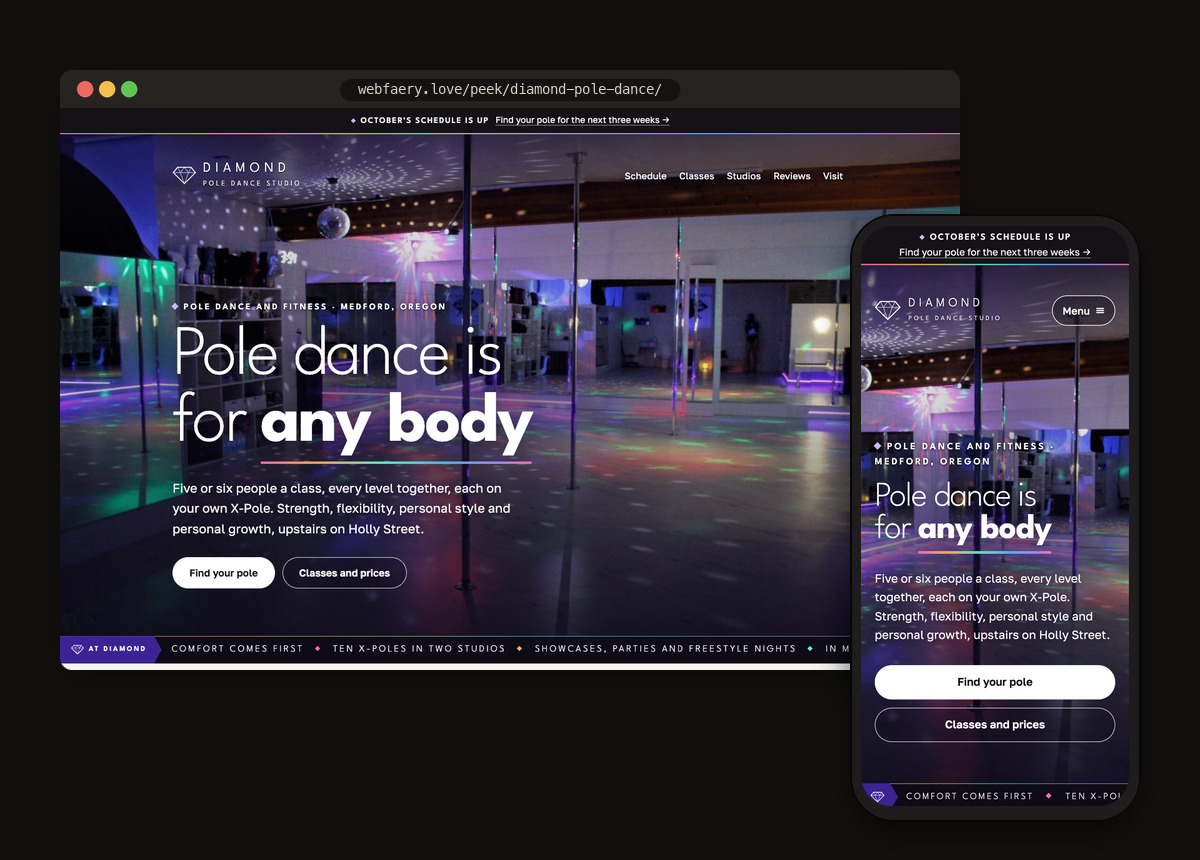
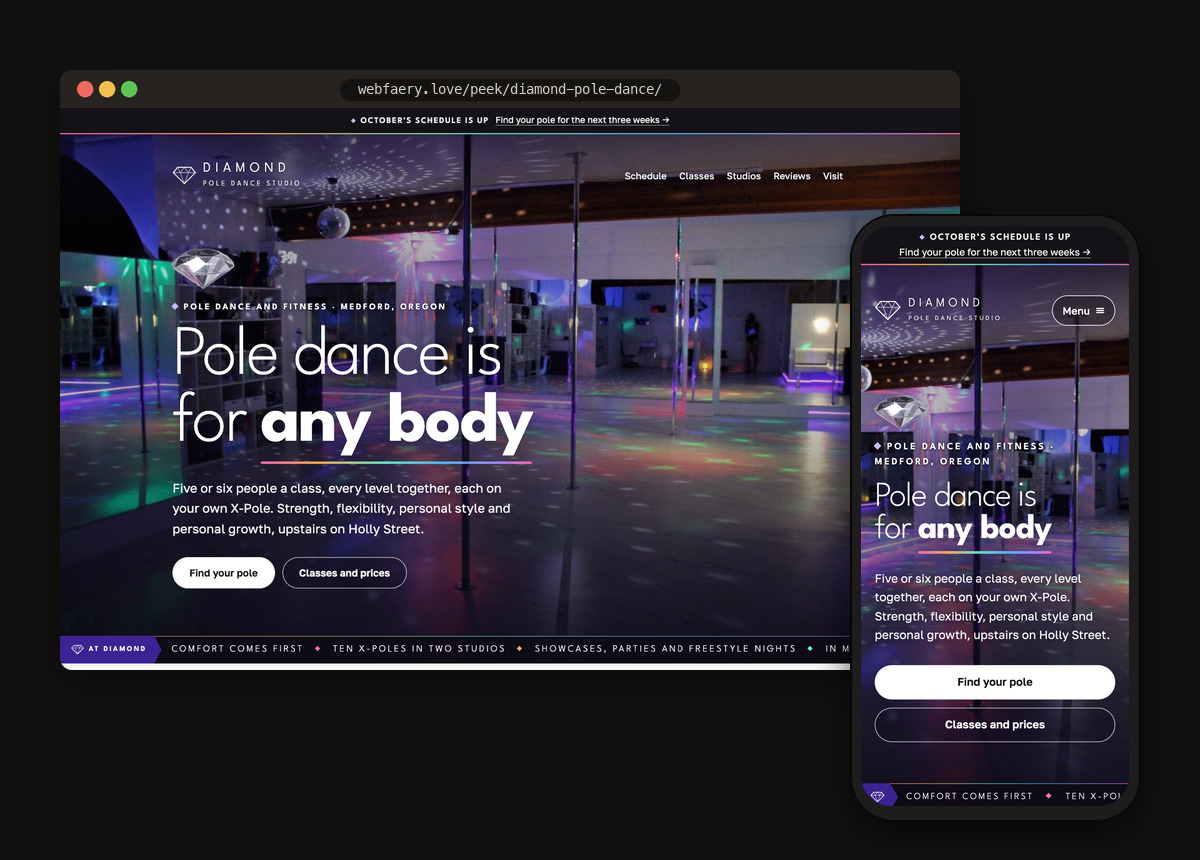
Diamond Pole Dance: a turning diamond over the hero words, the door to "Reserve your pole" (Pollen: "can you add a spinning diamond to diamond pole")
A crystal round brilliant (57 facets) drawn on a canvas after the clear diamond in their logo and Instagram picture.
It turns once every 20 seconds and catches the light (a white glint with pink and sky tips), rests off screen or in
a hidden tab, and sits still with one soft glint under reduced motion. Tap it and it whirls while the page glides to
"Reserve your pole". Share preview rebuilt with it.

Changed region(s): [[0.1233, 0.2419, 0.4933, 0.3628], [0.7092, 0.4233, 0.8942, 0.5442]]

diff --git a/peek/diamond-pole-dance/index.html b/peek/diamond-pole-dance/index.html
@@ -174,6 +174,22 @@
     .dm-more { display: none; } /* sitting still, the first three lines are plenty */
   }
 
+  /* THE DIAMOND (Pollen, Oct 14: "add a spinning diamond"): the crystal from their logo and their Instagram picture, cut
+     as a real round brilliant (57 facets) and turning slowly over the words. As it turns, its facets catch the room's
+     lights: a white glint with the fire at its tips, and now and then a flash of the party colors. Its job: it's the
+     door to the schedule. Tap it and it gives a quick whirl while the page glides down to "Reserve your pole", where
+     the mirror ball takes over. It speeds up a little under a mouse, rests when it's off screen or the tab is hidden, and
+     under reduced motion it sits still with one soft glint. Drawn on a canvas, so it stays crisp on any screen. */
+  /* it sits in the hero's top padding (--eat), so the words, buttons and the AT DIAMOND strip stay where they were */
+  .dm-gem { --gw: clamp(96px, min(11vw, 14vh), 170px); --eat: 50px; display: block; width: var(--gw); height: calc(var(--gw) * 0.75);
+    margin: calc(-1 * var(--eat)) 0 2px calc(var(--gw) * -0.11); cursor: pointer; -webkit-tap-highlight-color: transparent; }
+  @media (max-width: 760px) { .dm-gem { --eat: 36px; } }
+  .dm-gem canvas { display: block; width: 100%; height: 100%; }
+  .hero-band.wait .dm-gem { opacity: 0; }
+  .hero-band.go .dm-gem { animation: gem-in 2.6s cubic-bezier(.22,1,.36,1) 1.2s both; }
+  @keyframes gem-in { from { opacity: 0; transform: translateY(22px) scale(0.84); } 30% { opacity: 1; } to { opacity: 1; transform: none; } }
+  @media (orientation: landscape) and (max-height: 500px) { .dm-gem { --gw: 76px; --eat: 20px; } }
+
   section { padding-block: 84px; }
   section + section { border-top: 1px solid var(--hair); }
 
@@ -789,6 +805,7 @@
   <div class="hero-low gutter">
     <div class="wrap" style="width:100%">
       <div class="hero-copy">
+        <a class="dm-gem" id="dm-gem" href="#reserve" tabindex="-1" aria-hidden="true" title="Reserve your pole"><canvas width="0" height="0"></canvas></a>
         <p class="label"><span>pole dance and fitness &middot; medford, oregon</span></p>
         <h1>Pole dance is for <em>any body</em></h1>
         <p class="lede">Five or six people a class, every level together, each on your own X&#8209;Pole. Strength, flexibility, personal style and personal growth, upstairs on Holly Street.</p>
@@ -830,6 +847,162 @@
     var im = new Image(); im.onload = go; im.onerror = go; im.src = 'images/hero.jpg';
     if (im.complete) go();
     setTimeout(go, 1500);
+  })();
+</script>
+<script>
+  /* THE DIAMOND: a round brilliant in 3D (table, 8 stars, 8 kites, 16 upper girdles, 8 pavilion mains, 16 lower girdles),
+     turning in a room of lights that stays still, so every facet catches them as it passes: the far side shows through
+     the crystal, the near side is drawn over it, and the facet that meets the key light throws the glint. */
+  (function () {
+    var a = document.getElementById('dm-gem'), cv = a && a.querySelector('canvas'), x = cv && cv.getContext && cv.getContext('2d');
+    if (!x) return;
+    var R = Math.PI / 180, P = [], F = [];
+    var g = 0.026, hc = 0.33, rt = 0.56, rs = 0.79, hp = 0.86, rl = 0.2; /* girdle, crown height, table, star tips, pavilion depth, lower girdle tips */
+    function pt(r, an, y) { P.push([r * Math.cos(an), y, r * Math.sin(an)]); return P.length - 1; }
+    function crownY(r) { return g + hc * (1 - r) / (1 - rt); }
+    function pavY(r) { return -g - hp * (1 - r); }
+    var T = [], M = [], L = [], Gt = [], Gb = [], k, j;
+    for (k = 0; k < 8; k++) { T[k] = pt(rt, 45 * k * R, g + hc); M[k] = pt(rs, (45 * k + 22.5) * R, crownY(rs) + 0.05); L[k] = pt(rl, (45 * k + 22.5) * R, pavY(rl)); }
+    for (j = 0; j < 16; j++) { Gt[j] = pt(1, 22.5 * j * R, g); Gb[j] = pt(1, 22.5 * j * R, -g); }
+    var C = P.push([0, -g - hp, 0]) - 1;
+    function face(ix, part) { F.push({ i: ix, p: part }); }
+    face(T.slice(), 't');
+    for (k = 0; k < 8; k++) {
+      var km = (k + 7) % 8, e0 = 2 * k, e1 = 2 * k + 1, e2 = (2 * k + 2) % 16;
+      face([T[k], M[k], T[(k + 1) % 8]], 'c'); face([T[k], M[km], Gt[e0], M[k]], 'c'); face([M[k], Gt[e0], Gt[e1]], 'c'); face([M[k], Gt[e1], Gt[e2]], 'c');
+      face([Gb[e0], Gb[e1], L[k]], 'p'); face([Gb[e1], Gb[e2], L[k]], 'p'); face([Gb[e0], L[k], C, L[km]], 'p');
+    }
+    for (j = 0; j < 16; j++) face([Gt[j], Gt[(j + 1) % 16], Gb[(j + 1) % 16], Gb[j]], 'g');
+    F.forEach(function (f) { /* outward normals (Newell) and centers */
+      var nx = 0, ny = 0, nz = 0, cx = 0, cy = 0, cz = 0, n = f.i.length;
+      for (var q = 0; q < n; q++) {
+        var A = P[f.i[q]], B = P[f.i[(q + 1) % n]];
+        nx += (A[1] - B[1]) * (A[2] + B[2]); ny += (A[2] - B[2]) * (A[0] + B[0]); nz += (A[0] - B[0]) * (A[1] + B[1]);
+        cx += A[0] / n; cy += A[1] / n; cz += A[2] / n;
+      }
+      var l = Math.hypot(nx, ny, nz) || 1; nx /= l; ny /= l; nz /= l;
+      if (nx * cx + ny * cy + nz * cz < 0) { nx = -nx; ny = -ny; nz = -nz; }
+      f.n = [nx, ny, nz]; f.c = [cx, cy, cz];
+    });
+    /* the room, in degrees (az 0 = toward you, + = right): a sharp key light high on the left ringed by the fire
+       (pink, amber, mint, sky), a smaller light on the right, and the studio's party lights and violet strip lower down */
+    function Dir(az, el) { return [Math.sin(az * R) * Math.cos(el * R), Math.sin(el * R), Math.cos(az * R) * Math.cos(el * R)]; }
+    var KEY = Dir(-38, 66), LIGHTS = [
+      [KEY, [1, 1, 1], 90, 2], [Dir(-50, 62), [1, 0.44, 0.71], 80, 1.1], [Dir(-44, 71), [1, 0.7, 0.36], 80, 0.95],
+      [Dir(-28, 70), [0.44, 0.94, 0.78], 80, 0.95], [Dir(-30, 61), [0.36, 0.72, 1], 80, 1.05], [Dir(30, 50), [0.92, 0.9, 1], 60, 0.9],
+      [Dir(-16, 36), [1, 0.44, 0.71], 70, 0.45], [Dir(24, 40), [0.44, 0.94, 0.78], 70, 0.4], [Dir(2, 30), [0.66, 0.55, 1], 40, 0.5]
+    ];
+    function env(rx, ry, rz, o) {
+      /* the mirrors around the room are hard stripes, so neighboring facets read dark and light like a real stone */
+      var band = Math.cos(Math.atan2(rx, rz) * 6 + Math.asin(Math.max(-1, Math.min(1, ry))) * 5);
+      var st = band < -0.15 ? 0 : band > 0.35 ? 1 : (band + 0.15) / 0.5, hi = 0.5 + 0.5 * ry, b = 0.13 + st * (0.24 + 0.72 * hi * hi);
+      o[0] = b * 0.93; o[1] = b * 0.9; o[2] = b * 1.08;
+      for (var q = 0; q < LIGHTS.length; q++) {
+        var Lq = LIGHTS[q], d = rx * Lq[0][0] + ry * Lq[0][1] + rz * Lq[0][2];
+        if (d > 0) { var s = Math.pow(d, Lq[2]) * Lq[3]; o[0] += s * Lq[1][0]; o[1] += s * Lq[1][1]; o[2] += s * Lq[1][2]; }
+      }
+      return o;
+    }
+    function tone(v) { return Math.round(255 * (1 - Math.exp(-v * 1.7))); }
+    var V = [], tmp = [0, 0, 0], PITCH = 0.3, DIST = 7;
+    function draw(W, H, yaw, glint) {
+      var cyw = Math.cos(yaw), syw = Math.sin(yaw), cp = Math.cos(PITCH), sp = Math.sin(PITCH);
+      var S = Math.min(W * 0.4, H * 0.52), ox = W / 2, oy = H * 0.5 - S * 0.2, lw = Math.max(0.6, W / 420);
+      for (var q = 0; q < P.length; q++) {
+        var p = P[q], x1 = p[0] * cyw + p[2] * syw, z1 = -p[0] * syw + p[2] * cyw, y2 = p[1] * cp - z1 * sp, z2 = p[1] * sp + z1 * cp, f = DIST / (DIST - z2);
+        V[q] = [ox + x1 * f * S, oy - y2 * f * S];
+      }
+      x.clearRect(0, 0, W, H);
+      var hg = x.createRadialGradient(ox, oy - S * 0.1, 0, ox, oy - S * 0.1, S * 1.25); /* a little night behind it, then the violet strip's glow */
+      hg.addColorStop(0, 'rgba(10,8,22,0.3)'); hg.addColorStop(0.6, 'rgba(10,8,22,0.14)'); hg.addColorStop(1, 'rgba(10,8,22,0)');
+      x.fillStyle = hg; x.fillRect(0, 0, W, H);
+      hg = x.createRadialGradient(ox, oy - S * 0.1, 0, ox, oy - S * 0.1, S * 1.25);
+      hg.addColorStop(0, 'rgba(201,184,255,0.28)'); hg.addColorStop(0.55, 'rgba(150,120,255,0.1)'); hg.addColorStop(1, 'rgba(150,120,255,0)');
+      x.fillStyle = hg; x.fillRect(0, 0, W, H);
+      var front = [], back = [], best = null, bestS = 0;
+      F.forEach(function (fc) {
+        var n = fc.n, c = fc.c;
+        var nz1 = -n[0] * syw + n[2] * cyw, nx = n[0] * cyw + n[2] * syw, ny = n[1] * cp - nz1 * sp, nz = n[1] * sp + nz1 * cp;
+        var cz1 = -c[0] * syw + c[2] * cyw, cx1 = c[0] * cyw + c[2] * syw, cy2 = c[1] * cp - cz1 * sp, cz2 = c[1] * sp + cz1 * cp;
+        (-cx1 * nx - cy2 * ny + (DIST - cz2) * nz > 0 ? front : back).push({ f: fc, n: [nx, ny, nz] });
+      });
+      function poly(f) { var ix = f.i; x.beginPath(); x.moveTo(V[ix[0]][0], V[ix[0]][1]); for (var q = 1; q < ix.length; q++) x.lineTo(V[ix[q]][0], V[ix[q]][1]); x.closePath(); }
+      back.forEach(function (e) { /* the far side, seen through the stone */
+        var ix = -e.n[0], iy = -e.n[1], iz = -e.n[2];
+        env(-2 * iz * ix, 2 * iz * iy, 2 * iz * iz - 1, tmp);
+        x.fillStyle = 'rgb(' + tone(tmp[0] * 0.95) + ',' + tone(tmp[1] * 0.95) + ',' + tone(tmp[2] * 1.02) + ')';
+        poly(e.f); x.fill(); x.strokeStyle = 'rgba(255,255,255,0.16)'; x.lineWidth = lw * 0.8; x.stroke();
+      });
+      front.forEach(function (e) { /* the near side: table and crown clear, pavilion fuller */
+        var n = e.n, rx = 2 * n[2] * n[0], ry = 2 * n[2] * n[1], rz = 2 * n[2] * n[2] - 1, part = e.f.p;
+        if (part === 'p') env(rx, -ry, -rz, tmp); else env(rx, ry, rz, tmp);
+        if (part === 'g') { var gm = 0.34 + 0.4 * Math.max(0, n[1] + n[2] * 0.5); tmp[0] = tmp[0] * 0.3 + gm; tmp[1] = tmp[1] * 0.3 + gm * 0.97; tmp[2] = tmp[2] * 0.3 + gm * 1.08; }
+        x.fillStyle = 'rgba(' + tone(tmp[0]) + ',' + tone(tmp[1]) + ',' + tone(tmp[2]) + ',' + (part === 't' ? 0.42 : part === 'c' ? 0.66 : part === 'g' ? 0.9 : 0.8) + ')';
+        poly(e.f); x.fill(); x.strokeStyle = 'rgba(255,255,255,0.42)'; x.lineWidth = lw; x.stroke();
+        var d = rx * KEY[0] + ry * KEY[1] + rz * KEY[2]; if (d > bestS) { bestS = d; best = e; }
+      });
+      var gl = glint != null ? glint : Math.min(1, Math.max(0, (bestS - 0.992) / 0.007));
+      if (best && gl > 0.02) {
+        var ix2 = best.f.i, gx = 0, gy = 0; for (var q2 = 0; q2 < ix2.length; q2++) { gx += V[ix2[q2]][0] / ix2.length; gy += V[ix2[q2]][1] / ix2.length; }
+        star(gx, gy, S * (0.5 + 0.3 * gl), gl);
+      }
+    }
+    function star(sx, sy, r, al) { /* a soft bloom and a four point star, its long arms tinged with the fire */
+      x.save(); x.globalCompositeOperation = 'lighter'; x.translate(sx, sy);
+      var bg = x.createRadialGradient(0, 0, 0, 0, 0, r * 0.42);
+      bg.addColorStop(0, 'rgba(255,255,255,' + 0.95 * al + ')'); bg.addColorStop(0.35, 'rgba(232,224,255,' + 0.38 * al + ')'); bg.addColorStop(1, 'rgba(201,184,255,0)');
+      x.fillStyle = bg; x.beginPath(); x.arc(0, 0, r * 0.42, 0, 7); x.fill();
+      var w = Math.max(0.9, r * 0.06);
+      function ray(l, t, rot, fill) { x.save(); x.rotate(rot); x.fillStyle = fill; x.beginPath(); x.moveTo(-l, 0); x.lineTo(0, -t); x.lineTo(l, 0); x.lineTo(0, t); x.closePath(); x.fill(); x.restore(); }
+      var lg = x.createLinearGradient(-r, 0, r, 0);
+      lg.addColorStop(0, 'rgba(255,111,181,0)'); lg.addColorStop(0.22, 'rgba(255,150,200,' + 0.7 * al + ')'); lg.addColorStop(0.5, 'rgba(255,255,255,' + al + ')');
+      lg.addColorStop(0.78, 'rgba(120,200,255,' + 0.7 * al + ')'); lg.addColorStop(1, 'rgba(92,184,255,0)');
+      var vg = x.createLinearGradient(-r * 0.66, 0, r * 0.66, 0);
+      vg.addColorStop(0, 'rgba(255,255,255,0)'); vg.addColorStop(0.5, 'rgba(255,255,255,' + al + ')'); vg.addColorStop(1, 'rgba(255,255,255,0)');
+      ray(r, w, 0, lg); ray(r * 0.66, w * 0.9, Math.PI / 2, vg);
+      var dw = 'rgba(255,255,255,' + 0.5 * al + ')'; ray(r * 0.24, w * 0.6, Math.PI / 4, dw); ray(r * 0.24, w * 0.6, -Math.PI / 4, dw);
+      x.restore();
+    }
+
+    /* the turn: one slow revolution every 20 seconds (the 8 fold cut makes that a twinkle every couple of seconds) */
+    var still = window.matchMedia ? window.matchMedia('(prefers-reduced-motion: reduce)') : { matches: false };
+    var REST = 31 * R, SPD = 2 * Math.PI / 20, yaw = REST, W = 0, H = 0, raf = 0, last = 0, seen = true, hover = 0, hv = 0, kick = 0, kickAt = 0;
+    function size() {
+      var d = Math.min(3, window.devicePixelRatio || 1), w = Math.round(cv.clientWidth * d), h = Math.round(cv.clientHeight * d); /* layout size, not the scaled one mid entrance */
+      if (w > 0 && h > 0 && (w !== cv.width || h !== cv.height)) { cv.width = w; cv.height = h; }
+      W = cv.width; H = cv.height;
+    }
+    function paint() { if (!W) size(); if (W) draw(W, H, still.matches ? REST : yaw, still.matches ? 0.75 : null); }
+    function tick(t) {
+      raf = 0;
+      var dt = last ? Math.min(0.05, (t - last) / 1000) : 0; last = t;
+      hv += (hover - hv) * Math.min(1, dt * 3);
+      var boost = kick ? kick * Math.exp(-(t - kickAt) / 1000 * 1.7) : 0; if (boost < 0.01) kick = 0;
+      yaw = (yaw + dt * SPD * (1 + 1.6 * hv + boost)) % (2 * Math.PI);
+      paint(); run();
+    }
+    function run() { if (!raf && seen && !document.hidden && !still.matches) raf = requestAnimationFrame(tick); }
+    function rest() { if (raf) cancelAnimationFrame(raf); raf = 0; last = 0; }
+    function whirl(n) { kick = n; kickAt = performance.now(); run(); }
+    size(); paint(); run();
+    if ('ResizeObserver' in window) new ResizeObserver(function () { size(); paint(); }).observe(cv);
+    else window.addEventListener('resize', function () { size(); paint(); });
+    if ('IntersectionObserver' in window) new IntersectionObserver(function (es) { es.forEach(function (e) { seen = e.isIntersecting; if (seen) run(); else rest(); }); }).observe(a);
+    document.addEventListener('visibilitychange', function () { if (document.hidden) rest(); else run(); });
+    if (still.addEventListener) still.addEventListener('change', function () { rest(); paint(); run(); });
+    /* it arrives with the words: a few quick turns that settle into the slow one */
+    a.addEventListener('animationstart', function (e) { if (e.target === a) whirl(7); });
+    a.addEventListener('pointerenter', function (e) { if (e.pointerType === 'mouse') hover = 1; });
+    a.addEventListener('pointerleave', function () { hover = 0; });
+    /* its job: tap it and it whirls while the page glides down to the schedule */
+    a.addEventListener('click', function (e) {
+      var to = document.getElementById('reserve');
+      if (!to || still.matches || e.ctrlKey || e.metaKey || e.shiftKey || e.button) return;
+      e.preventDefault(); whirl(16);
+      to.scrollIntoView({ behavior: 'smooth', block: 'start' });
+      try { history.pushState(null, '', '#reserve'); } catch (er) {}
+      try { to.focus({ preventScroll: true }); } catch (er) {}
+    });
   })();
 </script>
 

diff --git a/peek/diamond-pole-dance/CREDITS.md b/peek/diamond-pole-dance/CREDITS.md
@@ -34,6 +34,6 @@ Pulled Oct 12 2026 from their own website (diamondpoledancestudio.webador.com) a
 | ig-4.jpg, ig-5.jpg, ig-6.jpg | Studio B wide angle shots (square crops: the mirror wall and plants, then the ivy column twice) | Instagram carousel Dcl_GKlmHOZ (slides 2, 5 and 6), Aug 28 2026 |
 | logo.png | Their logo (crystal diamond, pole dancer silhouette, DIAMOND POLE DANCE), white made transparent | their website, Home (DIAMOND.png) |
 
-The drawn studio in the "Reserve your pole" section (mirror ball, six chrome poles, Studio A's wooden beam and mirrors, Studio B's plants) is an SVG made for this page, after their own photos. The small diamond in the nav is drawn for this page too.
+The drawn studio in the "Reserve your pole" section (mirror ball, six chrome poles, Studio A's wooden beam and mirrors, Studio B's plants) is an SVG made for this page, after their own photos. The small diamond in the nav is drawn for this page too, and so is the turning diamond over the hero words (Oct 14 2026): a round brilliant drawn in code on a canvas, after the crystal diamond in their logo and Instagram picture.
 
 Left out on purpose: flyers and posts with words on them (the Halloween Showcase flyer, the monthly schedule posts, the new sign), outfit and swimwear posts, nightclub performance shots, and anything not fitness-forward. Students' faces appear only in the studio's own class photos from its website.
